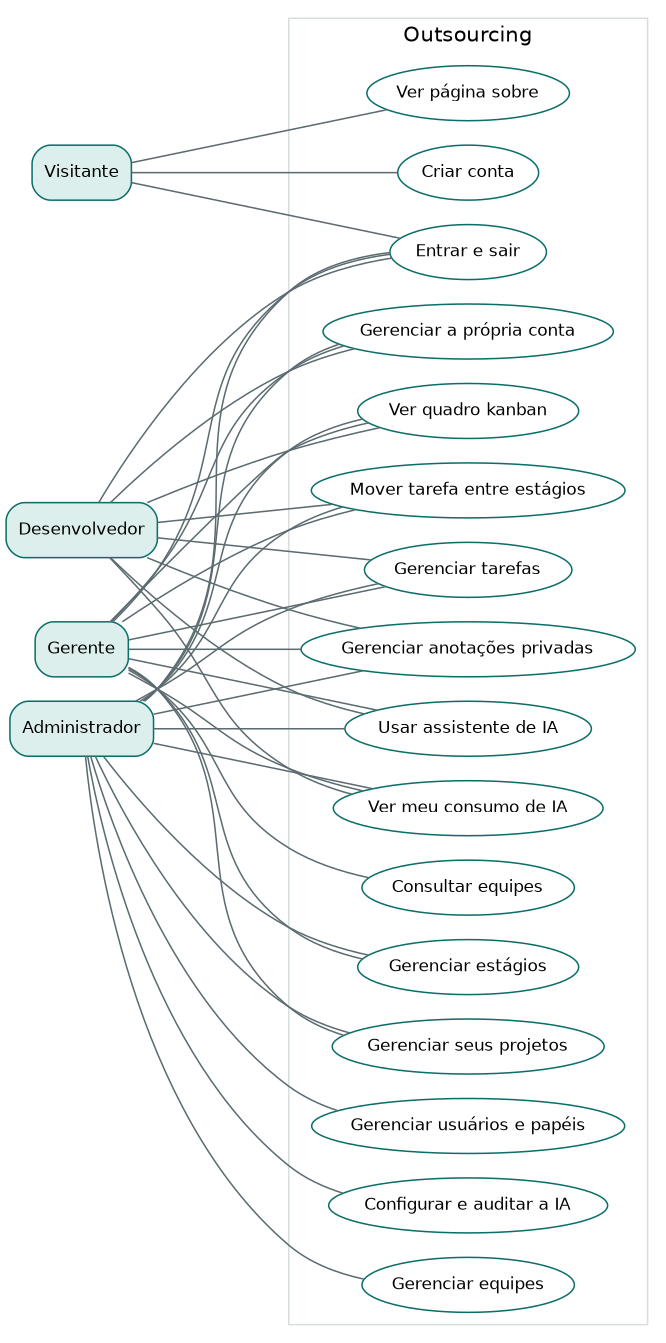
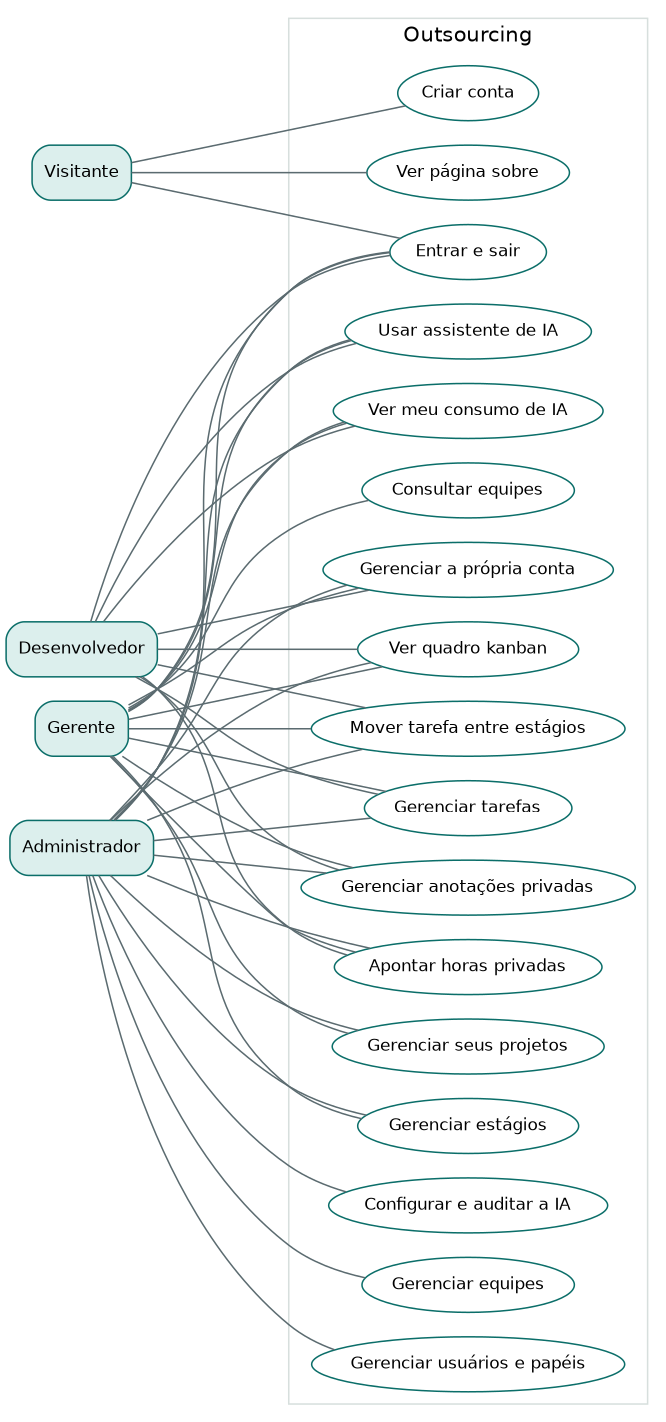
feat(pages): atualizar diagramas com apontamento de horas

diff --git a/templates/pages/sobre.html b/templates/pages/sobre.html
@@ -4,13 +4,13 @@
 {% block content %}
 <h1>{{ titulo }}</h1>
 <p>O Outsourcing é um sistema web para gestão de equipes, projetos e tarefas em quadro kanban, desenvolvido com Python e Django na arquitetura MVT para a disciplina de Novas Aplicações em Engenharia de Software do IFPR.</p>
-<p>Administradores cuidam de usuários e equipes. Gerentes criam projetos e organizam os estágios de suas equipes. Desenvolvedores acompanham as tarefas dos projetos em que participam, movem cada uma pelo quadro e mantêm anotações privadas.</p>
+<p>Administradores cuidam de usuários e equipes. Gerentes criam projetos e organizam os estágios de suas equipes. Desenvolvedores acompanham as tarefas dos projetos em que participam, movem cada uma pelo quadro e mantêm anotações e apontamentos de horas privados.</p>
 <div class="card card-body gap-2">
   <h2>Diagrama de casos de uso</h2>
   <img class="diagram" src="{% static 'img/diagrama-casos-de-uso.png' %}" alt="Diagrama de casos de uso com os atores Visitante, Desenvolvedor, Gerente e Administrador">
 </div>
 <div class="card card-body gap-2">
   <h2>Diagrama de classes</h2>
-  <img class="diagram" src="{% static 'img/diagrama-classes.png' %}" alt="Diagrama de classes com User, Profile, Address, Team, Project, Stage, Task e Note">
+  <img class="diagram" src="{% static 'img/diagrama-classes.png' %}" alt="Diagrama de classes com User, Profile, Address, Team, Project, Stage, Task, Note e TimeEntry">
 </div>
 {% endblock %}
